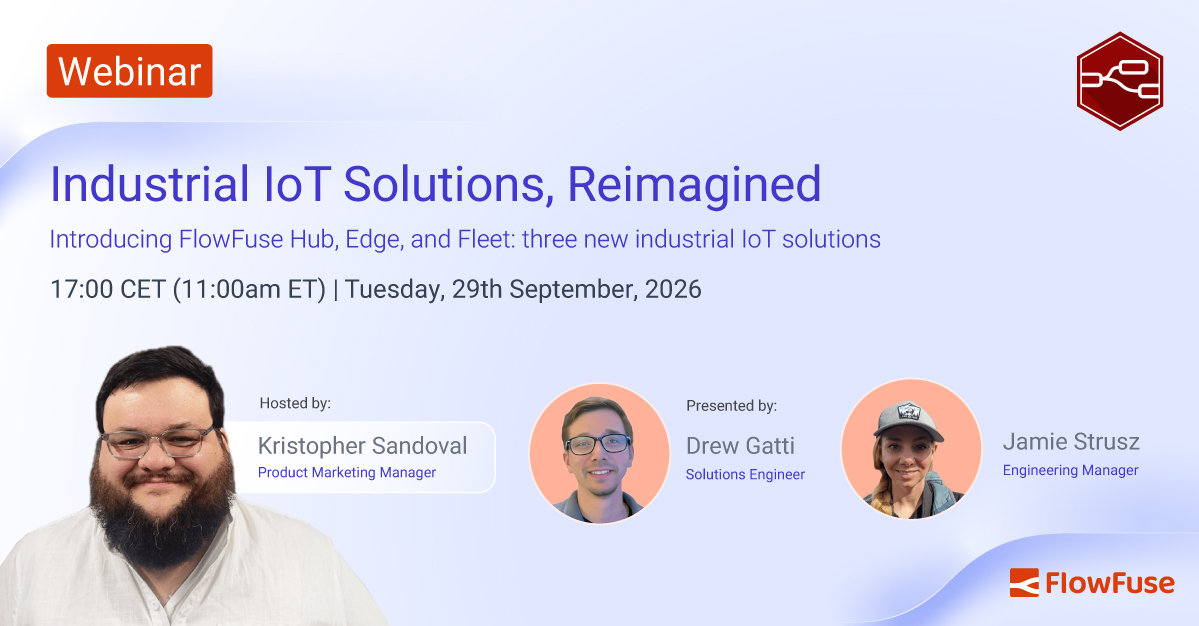
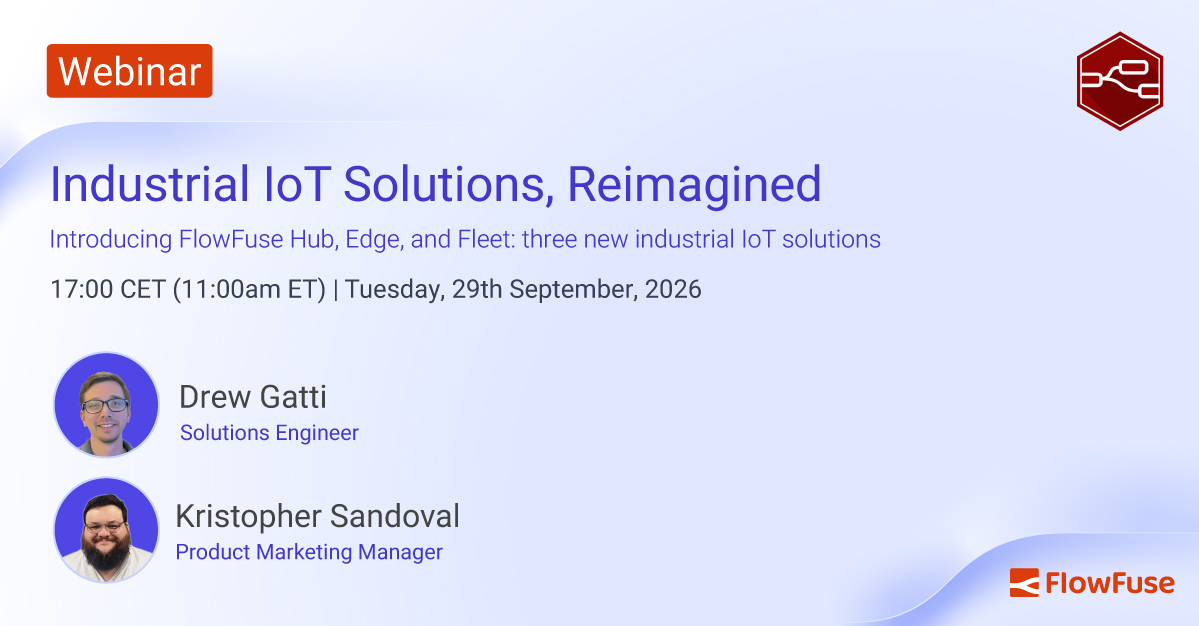
Remove Jamie

Changed region(s): [[0.0, 0.5463, 0.4012, 1.0], [0.432, 0.607, 0.9566, 0.8498]]

diff --git a/src/webinars/2026/industrial-iot-solutions.md b/src/webinars/2026/industrial-iot-solutions.md
@@ -25,7 +25,7 @@ date: 2026-09-29
 time: 17:00 CET (11:00am ET)
 duration: 60
 video:
-hosts: ["kristopher-sandoval", "jamie-strusz", "drew-gatti"]
+hosts: ["kristopher-sandoval", "drew-gatti"]
 hubspot:
     formId: 203e22c0-4c24-467d-b8fc-645160fa31f0
     downloadFormId:
@@ -40,7 +40,7 @@ Picture your average day. Maybe it looks like a plant losing millions of dollars
 
 Every one of those problems is real and until now, all of them got handed the same generic platform and told to make it fit. That changes today. We're launching three industrial IoT solutions: FlowFuse Hub, FlowFuse Edge, and FlowFuse Fleet — each built around one of those real jobs, not a tier or a bundle.
 
-Join Kristopher Sandoval (Product Marketing), Jamie Strusz (Engineering), Drew Gatti (Solutions Engineering), live to see all three in action, find out which one is yours, and leave knowing exactly how to start — today, in a 30-day trial, or as an upgrade from what you're already running.
+Join Kristopher Sandoval (Product Marketing) and Drew Gatti (Solutions Engineering), live to see all three in action, find out which one is yours, and leave knowing exactly how to start — today, in a 30-day trial, or as an upgrade from what you're already running.
 
 ## Which industrial IoT solution fits my setup?
 
